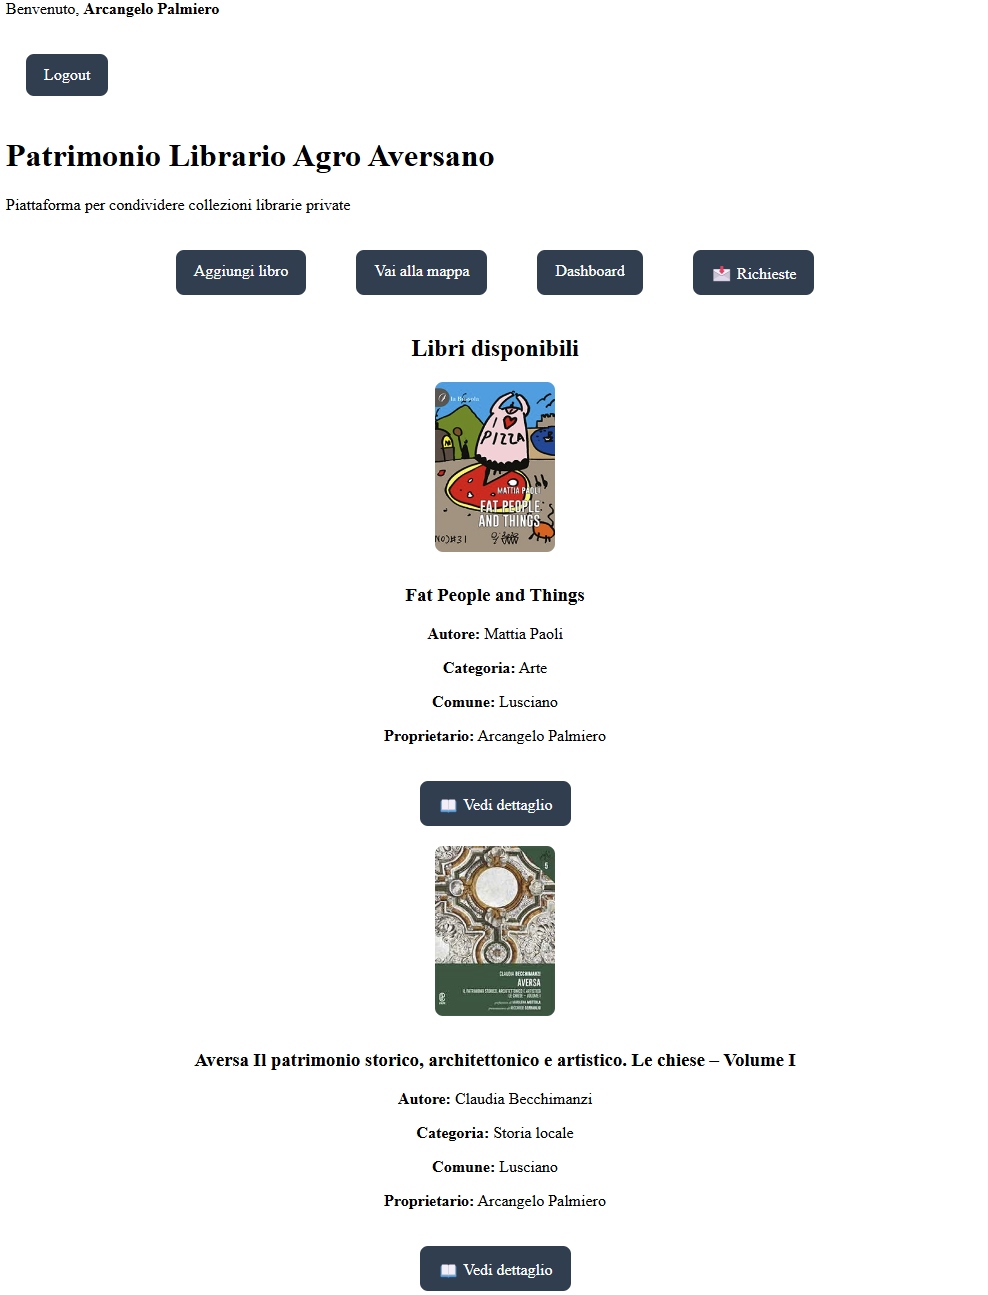
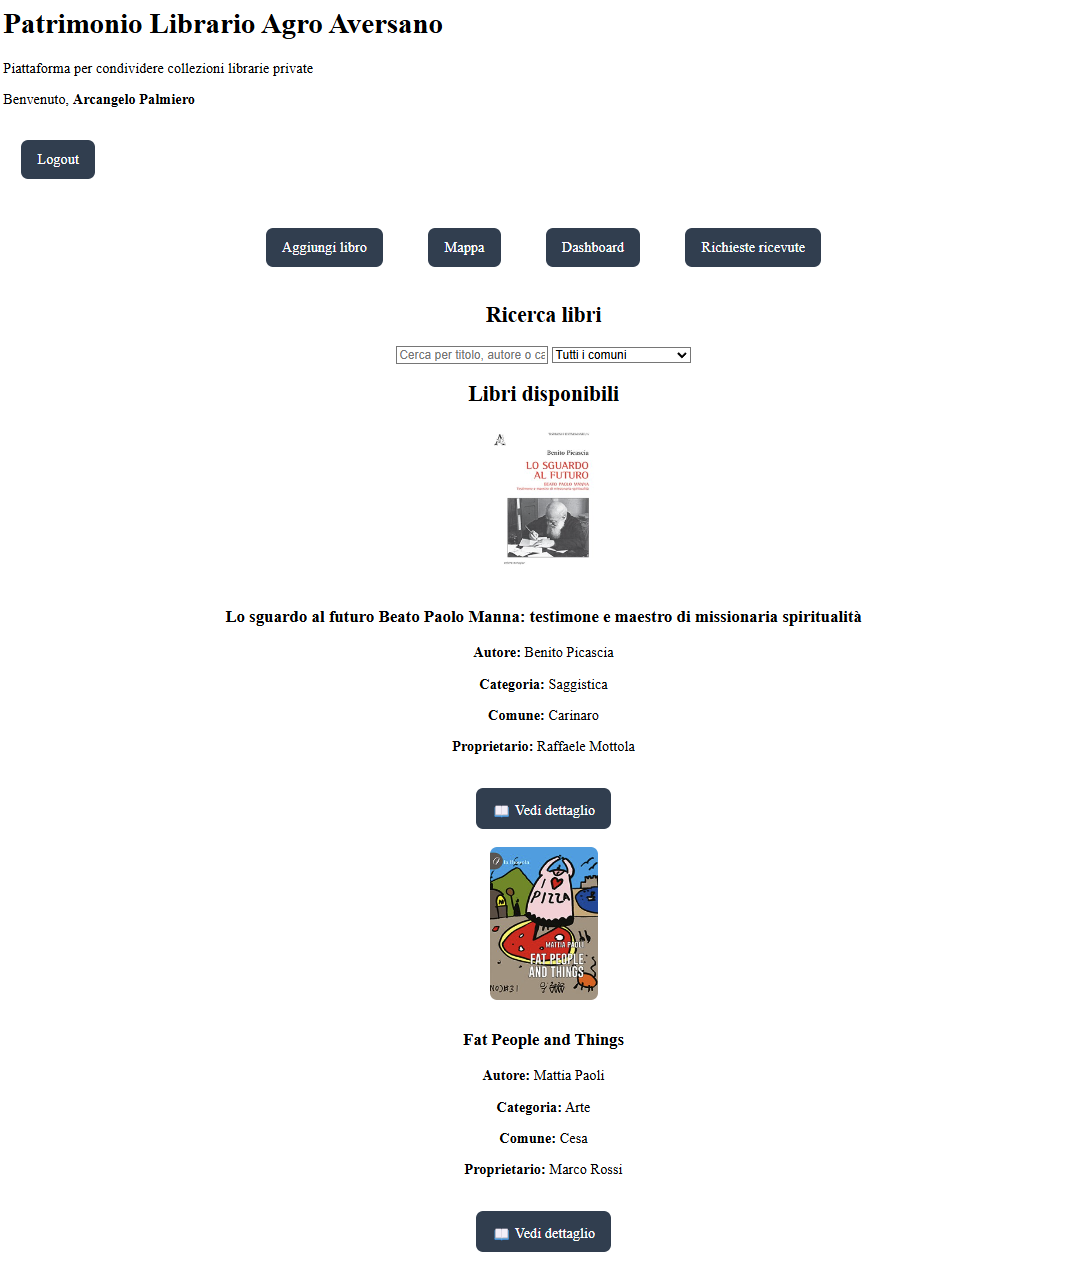
aggiornati screenshots

Changed region(s): [[0.0, 0.0, 0.8198, 1.0]]

diff --git a/frontend/js/main.js b/frontend/js/main.js
@@ -1,10 +1,37 @@
 // ===============================
+// Gestione Login / Logout
+// ===============================
+
+fetch("../../backend/routes/session.php")
+    .then(response => response.json())
+    .then(data => {
+        const authSection = document.getElementById("auth-section");
+
+        if (!authSection) return;
+
+        if (data.logged) {
+            authSection.innerHTML = `
+                <p>Benvenuto, <strong>${data.user}</strong></p>
+                <a href="../../backend/auth/logout.php" class="button-link">Logout</a>
+            `;
+        } else {
+            authSection.innerHTML = `
+                <a href="login.html" class="button-link">Login</a>
+                <a href="register.html" class="button-link">Registrati</a>
+            `;
+        }
+    })
+    .catch(error => {
+        console.error("Errore sessione:", error);
+    });
+
+
+// ===============================
 // Caricamento libri + ricerca
 // ===============================
 
 let allBooks = [];
 
-// Recupero libri da API
 fetch("../../backend/routes/api.php?action=books")
     .then(response => response.json())
     .then(data => {
@@ -21,6 +48,7 @@ fetch("../../backend/routes/api.php?action=books")
 // ===============================
 // Rendering libri
 // ===============================
+
 function renderBooks(books) {
     const container = document.getElementById("books-container");
     container.innerHTML = "";
@@ -39,13 +67,14 @@ function renderBooks(books) {
             : "../../assets/images/default-book.png";
 
         div.innerHTML = `
-            <img src="${image}" class="book-cover">
+            <img src="${image}" alt="Copertina di ${book.titolo}" class="book-cover">
 
             <h3>${book.titolo}</h3>
 
             <p><strong>Autore:</strong> ${book.autore}</p>
             <p><strong>Categoria:</strong> ${book.categoria || "Non specificata"}</p>
-            <p><strong>Comune:</strong> ${book.comune}</p>
+            <p><strong>Comune:</strong> ${book.comune || "Non indicato"}</p>
+            <p><strong>Proprietario:</strong> ${book.proprietario || "Non indicato"}</p>
 
             <a href="book-detail.html?id=${book.id}" class="button-link">
                 📖 Vedi dettaglio
@@ -58,21 +87,25 @@ function renderBooks(books) {
 
 
 // ===============================
-// Ricerca e filtro
+// Ricerca testuale + filtro comune
 // ===============================
 
-// input ricerca
-document.getElementById("search-input").addEventListener("input", filterBooks);
+const searchInput = document.getElementById("search-input");
+const comuneFilter = document.getElementById("comune-filter");
 
-// filtro comune
-document.getElementById("comune-filter").addEventListener("change", filterBooks);
+if (searchInput) {
+    searchInput.addEventListener("input", filterBooks);
+}
+
+if (comuneFilter) {
+    comuneFilter.addEventListener("change", filterBooks);
+}
 
 function filterBooks() {
-    const searchValue = document.getElementById("search-input").value.toLowerCase();
-    const comuneValue = document.getElementById("comune-filter").value;
+    const searchValue = searchInput.value.toLowerCase();
+    const comuneValue = comuneFilter.value;
 
     const filtered = allBooks.filter(book => {
-
         const matchesSearch =
             book.titolo.toLowerCase().includes(searchValue) ||
             book.autore.toLowerCase().includes(searchValue) ||
